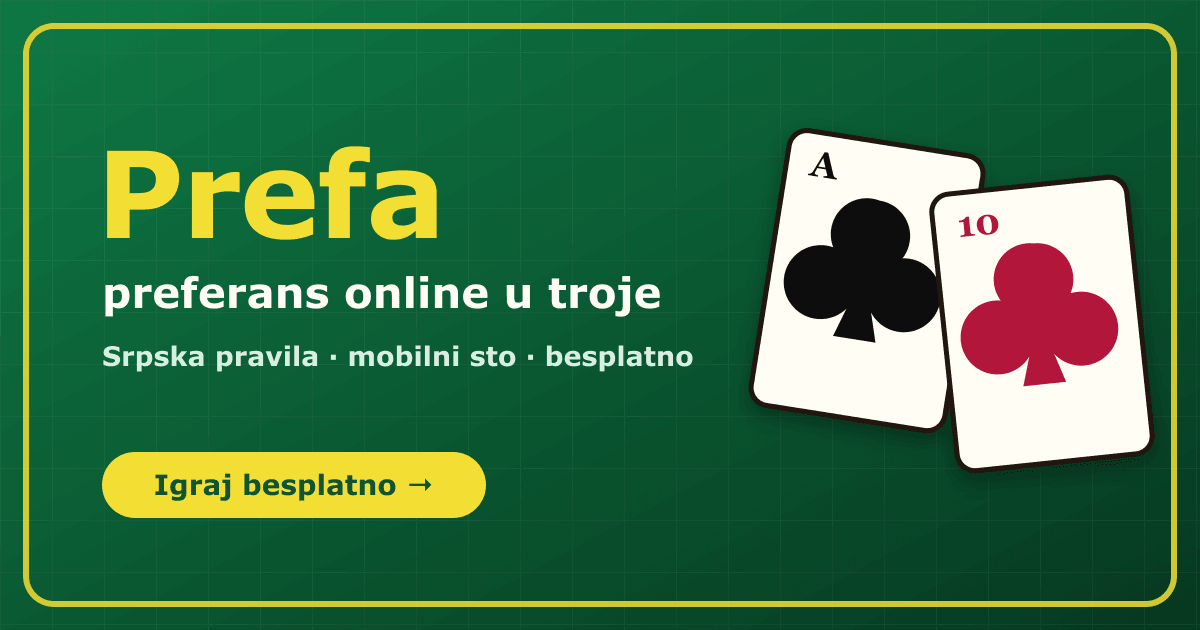
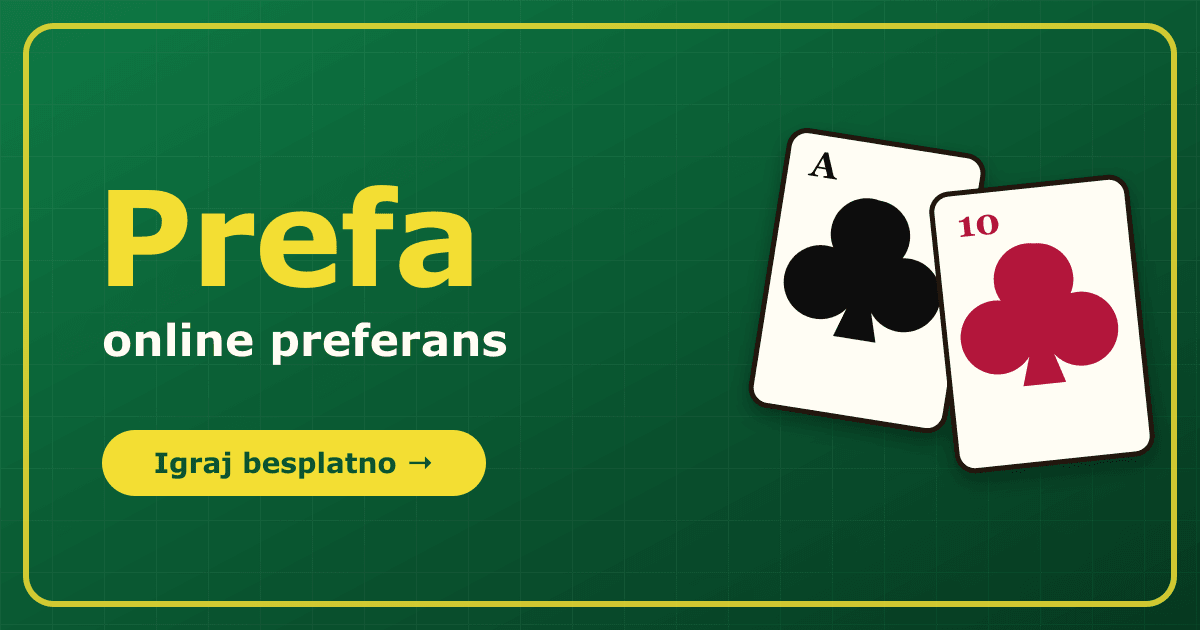
Refine OG images: simpler home art + dedicated invite image
- Home og-image: drop the "srpska pravila · mobilni sto · besplatno" line,
  shorten the subtitle to "online preferans", enlarge the wordmark
- New static og-invite image (same art, CTA "Priključi se partiji") used by
  the invite OG page — no dynamic image generation, no worker bundle cost
- invite.ts points og:image at og-invite.png; render script emits both;
  SW precache ignores og-*.png

Changed region(s): [[0.0617, 0.2111, 0.5858, 0.6032], [0.0617, 0.6635, 0.4317, 0.8444]]

diff --git a/workers/src/invite.ts b/workers/src/invite.ts
@@ -94,7 +94,8 @@ function page(fields: OgFields, ogImage: string, target: string): string {
 export async function renderInvitePage(env: Env, code: string): Promise<Response> {
   const appUrl = appBaseUrl(env);
   const target = `${appUrl}/o/${code}`;
-  const ogImage = `${appUrl}/og-image.png`;
+  // posebna (statička) slika za poziv — isti dizajn, CTA „Priključi se partiji"
+  const ogImage = `${appUrl}/og-invite.png`;
 
   // podrazumevani (generički) OG ako DO ne odgovori / partija ne postoji
   let fields: OgFields = {

diff --git a/vite.config.ts b/vite.config.ts
@@ -52,7 +52,7 @@ export default defineConfig(({ mode }) => {
               injectManifest: {
                 globPatterns: ['**/*.{js,css,html,svg,png,ico,webmanifest}'],
                 // Ne precache-uj velike deljene slike / iOS splash screen-ove.
-                globIgnores: ['**/apple-splash-*.png', '**/og-image.png'],
+                globIgnores: ['**/apple-splash-*.png', '**/og-*.png'],
               },
               devOptions: {
                 enabled: true,

diff --git a/workers/test/invite.spec.ts b/workers/test/invite.spec.ts
@@ -35,7 +35,7 @@ describe('OG invite stranica /o/:code', () => {
     expect(html).toContain('summary_large_image');
     expect(html).toContain('Ana'); // ime pozivaoca u OG
     expect(html).toContain(`/o/${code}`); // redirect target (app)
-    expect(html).toContain('og-image.png');
+    expect(html).toContain('og-invite.png'); // posebna slika za poziv
   });
 
   it('nepoznat kod → generički OG (200), i dalje vodi na app', async () => {